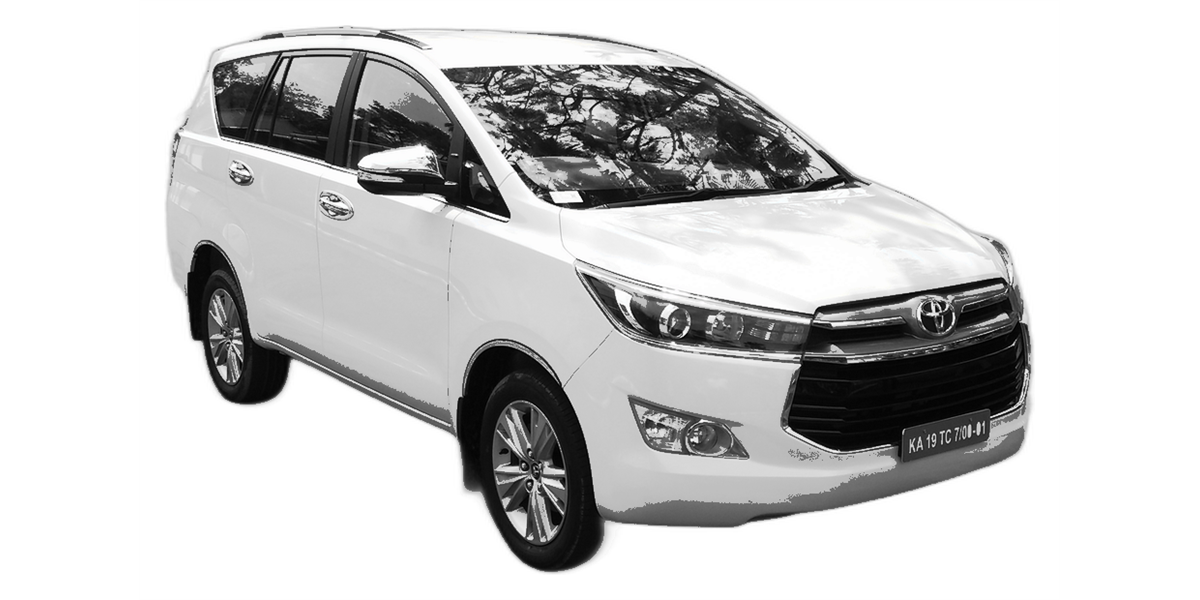
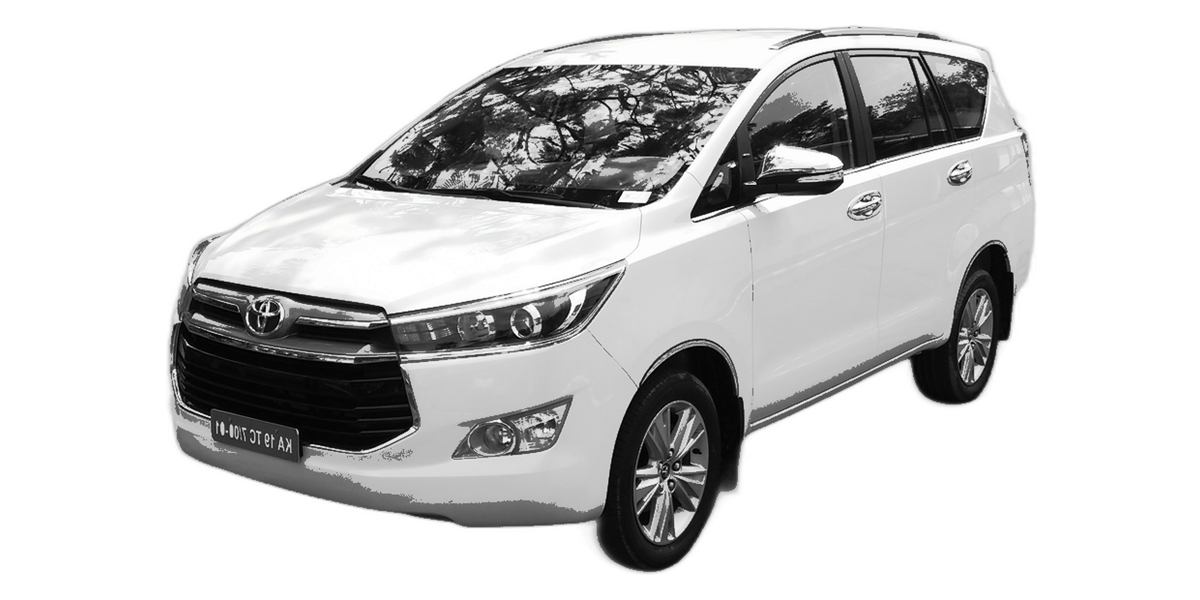
Fix fleet car directions and Ertiga look
- Innova and Tempo Traveller faced left; mirrored both so all cars face right
- Replaced the Ertiga image with a clean white SUV side view from the same
  studio set as the Dzire (so it matches the others in style, colour and
  facing) instead of the recoloured odd-one-out
- Cache-bust the fleet images (?v=7)

diff --git a/index.html b/index.html
@@ -1085,7 +1085,7 @@
         <div class="car-item-card" data-category="sedan">
           <div class="car-badge">Bestseller</div>
           <div class="car-visual-box">
-            <img src="images/fleet-sedan-dzire.png?v=6" alt="White Maruti Dzire sedan side view" class="car-photo-img" loading="lazy" />
+            <img src="images/fleet-sedan-dzire.png?v=7" alt="White Maruti Dzire sedan side view" class="car-photo-img" loading="lazy" />
           </div>
           <div class="car-body-content">
             <h3 class="car-real-name">Maruti Suzuki Dzire / Toyota Etios</h3>
@@ -1112,7 +1112,7 @@
         <div class="car-item-card" data-category="suv">
           <div class="car-badge">Family Favorite</div>
           <div class="car-visual-box">
-            <img src="images/fleet-suv-ertiga.png?v=6" alt="White Maruti Ertiga family SUV side view" class="car-photo-img" loading="lazy" />
+            <img src="images/fleet-suv-ertiga.png?v=7" alt="White Maruti Ertiga family SUV side view" class="car-photo-img" loading="lazy" />
           </div>
           <div class="car-body-content">
             <h3 class="car-real-name">Maruti Ertiga / Kia Carens</h3>
@@ -1139,7 +1139,7 @@
         <div class="car-item-card" data-category="luxury">
           <div class="car-badge vip-badge">Executive Class</div>
           <div class="car-visual-box">
-            <img src="images/fleet-mpv-innova.png?v=6" alt="White Toyota Innova MPV with captain seats" class="car-photo-img" loading="lazy" />
+            <img src="images/fleet-mpv-innova.png?v=7" alt="White Toyota Innova MPV with captain seats" class="car-photo-img" loading="lazy" />
           </div>
           <div class="car-body-content">
             <h3 class="car-real-name">Toyota Innova Crysta / Hycross</h3>
@@ -1166,7 +1166,7 @@
         <div class="car-item-card" data-category="tempo">
           <div class="car-badge">Group Tour</div>
           <div class="car-visual-box">
-            <img src="images/fleet-tempo-traveller.png?v=6" alt="White Force Tempo Traveller 17, 20 and 25 seater group van" class="car-photo-img" loading="lazy" />
+            <img src="images/fleet-tempo-traveller.png?v=7" alt="White Force Tempo Traveller 17, 20 and 25 seater group van" class="car-photo-img" loading="lazy" />
           </div>
           <div class="car-body-content">
             <h3 class="car-real-name">Force Tempo Traveller (17/20/25 Seater)</h3>
